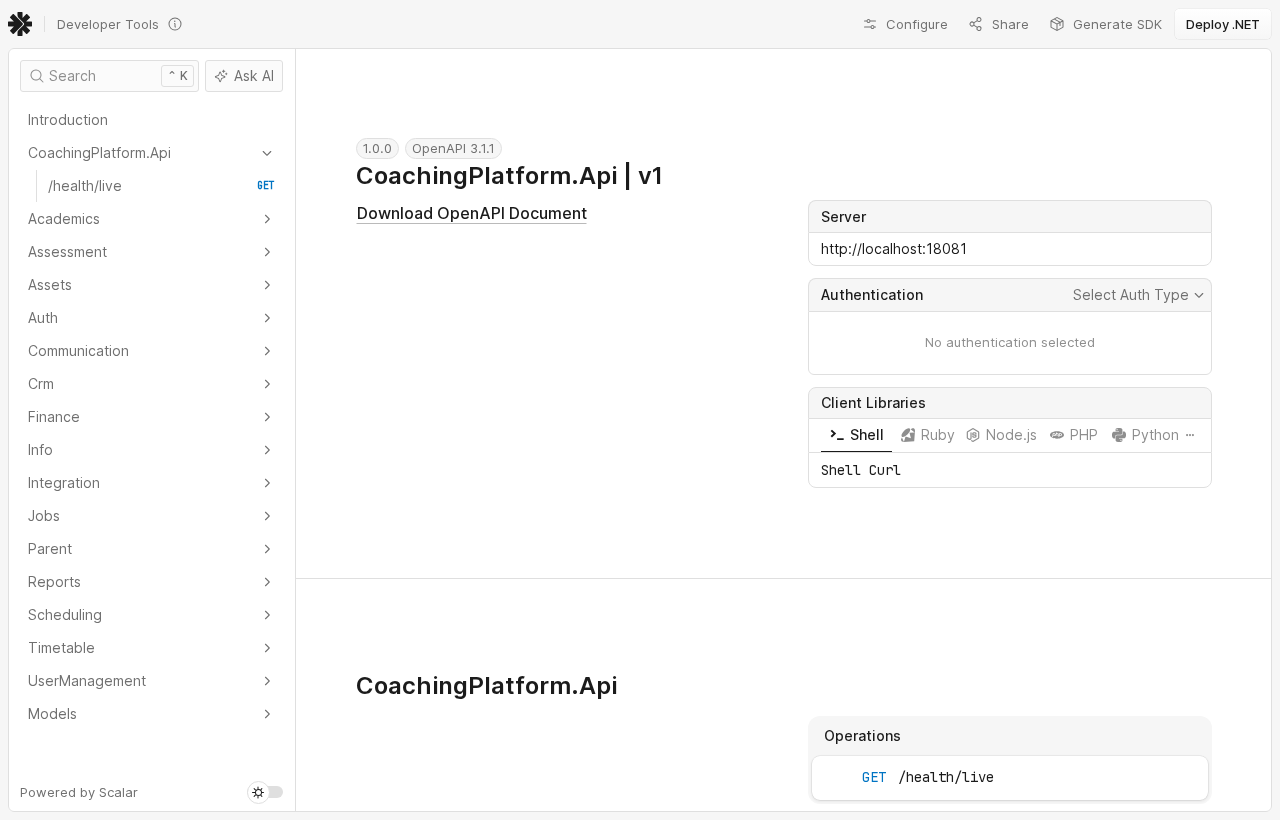
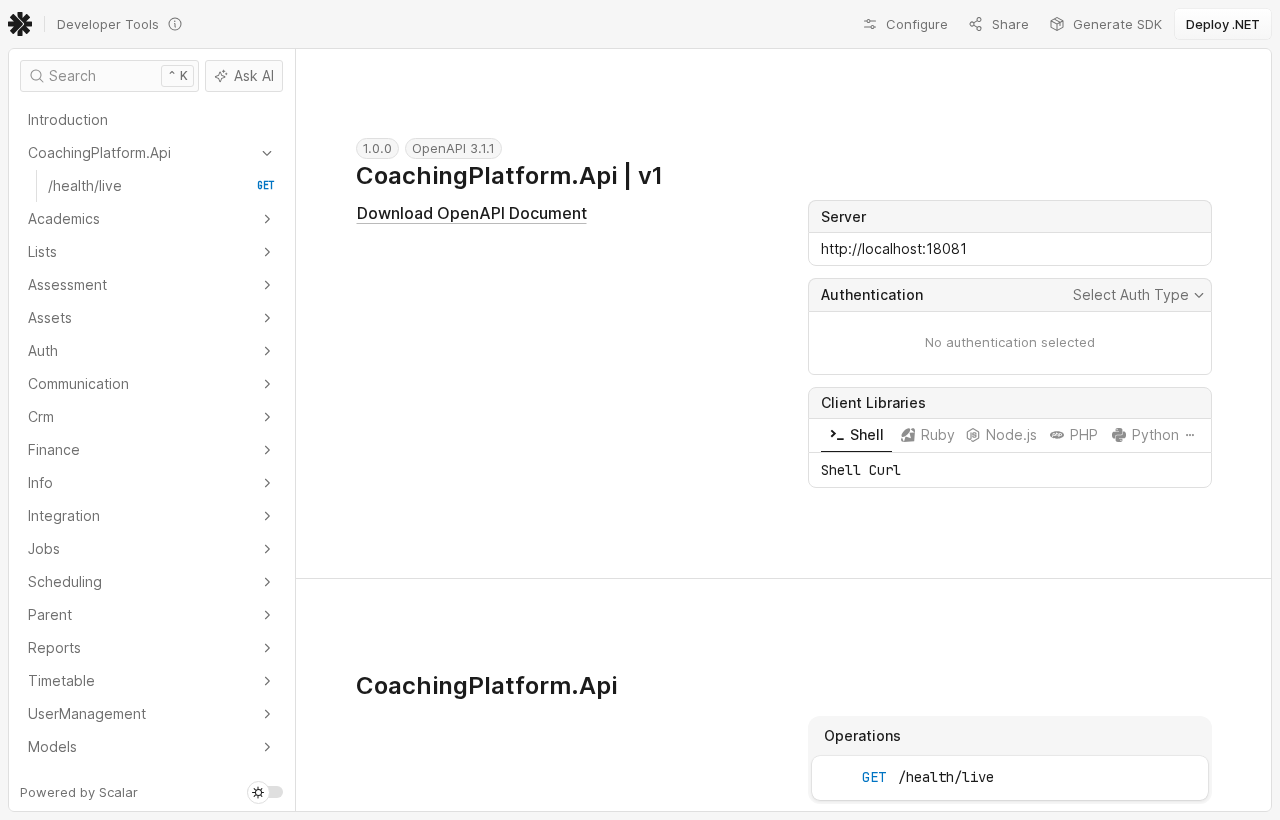
feat(api): add list endpoints for ops grids and academic years
Courses, schedule rules, leave requests, assessments, fee structures, invoices, discounts, scholarships and follow-ups now have tenant-scoped read endpoints, so the Mantine grids show real data. Adds academic-year create/list so batches can be seeded. Recaptures seeded screenshots.

diff --git a/web/src/resources.ts b/web/src/resources.ts
@@ -20,6 +20,9 @@ const level = [{value:'Beginner',label:'Beginner'},{value:'Intermediate',label:'
 
 export const resources: Resource[] = [
   // ACADEMICS
+  { key:'academic-years', label:'Academic years', path:'/api/academic-years', fields:[
+    {name:'name',label:'Year (e.g. 2026-27)',required:true},{name:'startDate',label:'Start',type:'date',required:true},{name:'endDate',label:'End',type:'date',required:true}],
+    columns:['id','name','startDate','endDate','isActive'] },
   { key:'courses', label:'Courses', path:'/api/courses', fields:[
     {name:'code',label:'Code',required:true},{name:'name',label:'Name',required:true},{name:'description',label:'Description',type:'textarea'},
     {name:'level',label:'Level',type:'select',options:level,default:'Beginner'},{name:'durationMonths',label:'Duration (months)',type:'number',default:6}],

diff --git a/web/src/App.tsx b/web/src/App.tsx
@@ -27,6 +27,7 @@ export default function App() {
   return <MantineProvider theme={theme}><Notifications/><BrowserRouter><NotificationsProvider><Layout><Routes>
     <Route path="/" element={<Dashboard/>}/>
     <Route path="/academics" element={<R k="courses"/>}/>
+    <Route path="/academics/years" element={<R k="academic-years"/>}/>
     <Route path="/academics/courses" element={<R k="courses"/>}/>
     <Route path="/academics/batches" element={<R k="batches"/>}/>
     <Route path="/academics/enrollments" element={<R k="enrollments"/>}/>

diff --git a/src/CoachingPlatform.Application/Services/ListService.cs b/src/CoachingPlatform.Application/Services/ListService.cs
@@ -1,0 +1,125 @@
+using CoachingPlatform.Application.Common;
+using CoachingPlatform.Domain.Academics;
+using CoachingPlatform.Domain.Assessment;
+using CoachingPlatform.Domain.Crm;
+using CoachingPlatform.Domain.Finance;
+using CoachingPlatform.Domain.Scheduling;
+using Microsoft.EntityFrameworkCore;
+
+namespace CoachingPlatform.Application.Services;
+
+/// <summary>Read-only list queries for the operations-console grids. Tenant isolation comes from the DbContext global filters.</summary>
+public interface IListService
+{
+    Task<Guid> CreateAcademicYearAsync(string name, DateOnly start, DateOnly end, CancellationToken ct = default);
+    Task<IReadOnlyList<object>> AcademicYearsAsync(CancellationToken ct = default);
+    Task<IReadOnlyList<object>> CoursesAsync(CancellationToken ct = default);
+    Task<IReadOnlyList<object>> ScheduleRulesAsync(CancellationToken ct = default);
+    Task<IReadOnlyList<object>> LeaveRequestsAsync(CancellationToken ct = default);
+    Task<IReadOnlyList<object>> AssessmentsAsync(CancellationToken ct = default);
+    Task<IReadOnlyList<object>> FeeStructuresAsync(CancellationToken ct = default);
+    Task<IReadOnlyList<object>> InvoicesAsync(CancellationToken ct = default);
+    Task<IReadOnlyList<object>> DiscountsAsync(CancellationToken ct = default);
+    Task<IReadOnlyList<object>> ScholarshipsAsync(CancellationToken ct = default);
+    Task<IReadOnlyList<object>> FollowUpsAsync(CancellationToken ct = default);
+}
+
+public sealed class ListService(IApplicationDbContext db, ICurrentUser current) : IListService
+{
+    public async Task<Guid> CreateAcademicYearAsync(string name, DateOnly start, DateOnly end, CancellationToken ct)
+    {
+        var year = new AcademicYear
+        {
+            TenantId = current.TenantId,
+            Name = name,
+            StartDate = start,
+            EndDate = end,
+            IsActive = true,
+        };
+        db.Set<AcademicYear>().Add(year);
+        await db.SaveChangesAsync(ct);
+        return year.Id;
+    }
+
+    public async Task<IReadOnlyList<object>> AcademicYearsAsync(CancellationToken ct)
+    {
+        var rows = await db.Set<AcademicYear>().AsNoTracking().OrderByDescending(y => y.StartDate)
+            .Select(y => new { y.Id, y.Name, y.StartDate, y.EndDate, y.IsActive })
+            .ToListAsync(ct);
+        return rows.Cast<object>().ToList();
+    }
+
+    public async Task<IReadOnlyList<object>> CoursesAsync(CancellationToken ct)
+    {
+        var rows = await db.Set<Course>().AsNoTracking().OrderBy(c => c.Code)
+            .Select(c => new { c.Id, c.Code, c.Name, Level = c.Level.ToString(), c.DurationMonths, c.IsActive })
+            .ToListAsync(ct);
+        return rows.Cast<object>().ToList();
+    }
+
+    public async Task<IReadOnlyList<object>> ScheduleRulesAsync(CancellationToken ct)
+    {
+        var rows = await db.Set<ScheduleRule>().AsNoTracking().OrderBy(r => r.DayOfWeek).ThenBy(r => r.StartTime)
+            .Select(r => new { r.Id, r.BatchId, r.DayOfWeek, StartTime = r.StartTime.ToString(), EndTime = r.EndTime.ToString(), r.IsActive })
+            .ToListAsync(ct);
+        return rows.Cast<object>().ToList();
+    }
+
+    public async Task<IReadOnlyList<object>> LeaveRequestsAsync(CancellationToken ct)
+    {
+        var rows = await db.Set<LeaveRequest>().AsNoTracking().OrderByDescending(r => r.CreatedAt)
+            .Select(r => new { r.Id, r.StudentId, Status = r.Status.ToString(), r.StartDate, r.EndDate, r.Reason })
+            .ToListAsync(ct);
+        return rows.Cast<object>().ToList();
+    }
+
+    public async Task<IReadOnlyList<object>> AssessmentsAsync(CancellationToken ct)
+    {
+        var rows = await db.Set<Assessment>().AsNoTracking().OrderByDescending(a => a.CreatedAt)
+            .Select(a => new { a.Id, a.Title, Type = a.Type.ToString(), a.TotalMarks, Status = a.Status.ToString(), a.StartUtc, a.EndUtc })
+            .ToListAsync(ct);
+        return rows.Cast<object>().ToList();
+    }
+
+    public async Task<IReadOnlyList<object>> FeeStructuresAsync(CancellationToken ct)
+    {
+        var rows = await db.Set<FeeStructure>().AsNoTracking().OrderBy(f => f.Name)
+            .Select(f => new { f.Id, f.Name, f.Code, Amount = f.Amount.Amount, Currency = f.Amount.Currency,
+                Frequency = f.Frequency.ToString(), f.TaxPercent, f.EffectiveFrom, f.IsActive })
+            .ToListAsync(ct);
+        return rows.Cast<object>().ToList();
+    }
+
+    public async Task<IReadOnlyList<object>> InvoicesAsync(CancellationToken ct)
+    {
+        var rows = await db.Set<Invoice>().AsNoTracking().OrderByDescending(i => i.IssueDate)
+            .Select(i => new { i.Id, i.InvoiceNumber, i.StudentId, Total = i.Total.Amount,
+                AmountPaid = i.AmountPaid.Amount, Status = i.Status.ToString(), i.DueDate, i.IssueDate })
+            .ToListAsync(ct);
+        return rows.Cast<object>().ToList();
+    }
+
+    public async Task<IReadOnlyList<object>> DiscountsAsync(CancellationToken ct)
+    {
+        var rows = await db.Set<Discount>().AsNoTracking().OrderBy(d => d.Code)
+            .Select(d => new { d.Id, d.Code, d.Name, Type = d.Type.ToString(), d.Value, d.UsageCount, d.IsActive })
+            .ToListAsync(ct);
+        return rows.Cast<object>().ToList();
+    }
+
+    public async Task<IReadOnlyList<object>> ScholarshipsAsync(CancellationToken ct)
+    {
+        var rows = await db.Set<Scholarship>().AsNoTracking().OrderByDescending(s => s.CreatedAt)
+            .Select(s => new { s.Id, s.StudentId, s.Name, Type = s.Type.ToString(), s.Value, s.IsActive, s.StartDate })
+            .ToListAsync(ct);
+        return rows.Cast<object>().ToList();
+    }
+
+    public async Task<IReadOnlyList<object>> FollowUpsAsync(CancellationToken ct)
+    {
+        var rows = await db.Set<FollowUp>().AsNoTracking().OrderByDescending(f => f.ScheduledAt)
+            .Select(f => new { f.Id, f.LeadId, f.Note, f.ScheduledAt, Status = f.Status.ToString(), f.CompletedAt })
+            .ToListAsync(ct);
+        return rows.Cast<object>().ToList();
+    }
+}

diff --git a/src/CoachingPlatform.Api/Controllers/ListsController.cs b/src/CoachingPlatform.Api/Controllers/ListsController.cs
@@ -1,0 +1,50 @@
+using CoachingPlatform.Application.Services;
+using Microsoft.AspNetCore.Authorization;
+using Microsoft.AspNetCore.Mvc;
+
+namespace CoachingPlatform.Api.Controllers;
+
+/// <summary>List views for the operations console. All reads are tenant-scoped by the DbContext global filters.</summary>
+[ApiController]
+[Route("api")]
+[Authorize(Roles = "Admin,Teacher")]
+[Produces("application/json")]
+public sealed class ListsController(IListService lists) : ControllerBase
+{
+    [HttpGet("academic-years")]
+    public async Task<IActionResult> AcademicYears(CancellationToken ct) => Ok(await lists.AcademicYearsAsync(ct));
+
+    [HttpPost("academic-years")]
+    public async Task<IActionResult> CreateAcademicYear(
+        [FromBody] AcademicYearRequest request, CancellationToken ct)
+        => Ok(new { id = await lists.CreateAcademicYearAsync(request.Name, request.StartDate, request.EndDate, ct) });
+
+    [HttpGet("courses")]
+    public async Task<IActionResult> Courses(CancellationToken ct) => Ok(await lists.CoursesAsync(ct));
+
+    [HttpGet("schedule-rules")]
+    public async Task<IActionResult> ScheduleRules(CancellationToken ct) => Ok(await lists.ScheduleRulesAsync(ct));
+
+    [HttpGet("scheduling/leave-requests")]
+    public async Task<IActionResult> LeaveRequests(CancellationToken ct) => Ok(await lists.LeaveRequestsAsync(ct));
+
+    [HttpGet("assessments")]
+    public async Task<IActionResult> Assessments(CancellationToken ct) => Ok(await lists.AssessmentsAsync(ct));
+
+    [HttpGet("fee-structures")]
+    public async Task<IActionResult> FeeStructures(CancellationToken ct) => Ok(await lists.FeeStructuresAsync(ct));
+
+    [HttpGet("invoices")]
+    public async Task<IActionResult> Invoices(CancellationToken ct) => Ok(await lists.InvoicesAsync(ct));
+
+    [HttpGet("discounts")]
+    public async Task<IActionResult> Discounts(CancellationToken ct) => Ok(await lists.DiscountsAsync(ct));
+
+    [HttpGet("scholarships")]
+    public async Task<IActionResult> Scholarships(CancellationToken ct) => Ok(await lists.ScholarshipsAsync(ct));
+
+    [HttpGet("crm/follow-ups")]
+    public async Task<IActionResult> FollowUps(CancellationToken ct) => Ok(await lists.FollowUpsAsync(ct));
+}
+
+public sealed record AcademicYearRequest(string Name, DateOnly StartDate, DateOnly EndDate);

diff --git a/src/CoachingPlatform.Application/ServiceCollectionExtensions.cs b/src/CoachingPlatform.Application/ServiceCollectionExtensions.cs
@@ -34,6 +34,7 @@ public static class ServiceCollectionExtensions
         services.AddScoped<ICrmService, CrmService>();
         services.AddScoped<IUserManagementService, UserManagementService>();
         services.AddScoped<ITimetableService, TimetableService>();
+        services.AddScoped<IListService, ListService>();
         return services;
     }
 }
